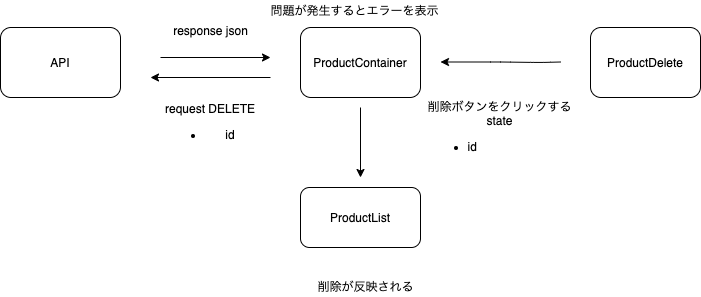
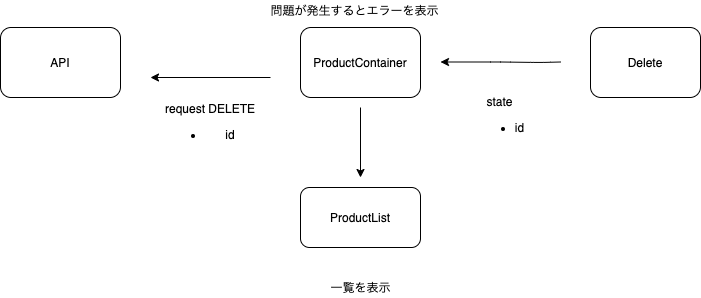
コンポーネント図の修正

diff --git a/src/api/ProductApi.js b/src/api/ProductApi.js
@@ -4,7 +4,7 @@ import axios from 'axios'
 const API_HOST = process.env.REACT_APP_API_HOST; //http://localhost:8080/
 
 const productApi = axios.create({
-    baseURL: API_HOST + '/api/products',
+    baseURL: API_HOST + 'api/products',
     headers: {
         'Content-Type': 'application/json'
     },
@@ -13,8 +13,6 @@ const productApi = axios.create({
 
 /**
  * apiのアクセスに必要なauthヘッダーを作成して返します
- * @param apiToken
- * @returns {Object} config
  */
  const generateConfig = (apiToken) => ({
     headers: {'Authorization': `Bearer ${apiToken}`}
@@ -23,80 +21,40 @@ const productApi = axios.create({
 
 /**
  * 商品情報一覧を取得します
- * @param apiToken
- * @returns {Promise<Product[]|String>}
  */
 const fetchAll = async (apiToken) => {
-        const products = (await productApi.get('/', generateConfig(apiToken))).data;
+        const products = (await productApi.get('/', generateConfig(apiToken)));
         products.forEach(v => {
-            v.isVisible = true;
-            v.editIsVisible = false;
+            console.log(v)
         });
         return products;
     }
+
 /**
  * 商品を追加します
- * @param body
- * @param apiToken
- * @returns {Promise<Product|String>}
  */
 const add = async (title, desc, price, apiToken) => {
-    try {
-        const product = (await productApi.post('/', title, desc, price, generateConfig(apiToken))).data;
-        product.isVisible = true;
-        product.isEdit = false;
+        const product = (await productApi.post('/', title, desc, price, generateConfig(apiToken)));
         return product;
-    }
-    catch (err) {
-        if (err.response) {
-            throw err.response.data.error.message;
-        } else {
-            throw err.message;
-        }
-    }
 };
 
 /**
  * 指定idの商品を更新します
- * @param id
- * @param body
- * @param apiToken
- * @returns {Promise<Product|String>}
  */
 const update = async (id, title, desc, price, apiToken) => {
-    try {
-        const product = (await productApi.put(`/${id}`, title, desc, price, generateConfig(apiToken))).data;
-        product.isVisible = true;
-        product.isEdit = false;
+        const product = (await productApi.put(`/${id}`, title, desc, price, generateConfig(apiToken)));
         return product;
-    }
-    catch (err) {
-        if (err.response) {
-            throw err.response.data.error.message;
-        } else {
-            throw err.message;
-        }
-    }
 };
 
 /**
  * 指定idの商品を削除します
- * @param id
- * @param apiToken
- * @returns {Promise<AxiosResponse<T>|String>}
  */
 const $delete = async (id, apiToken) => {
-    try {
         return await productApi.delete(`/${id}`, generateConfig(apiToken));
-    }
-    catch (err) {
-        if (err.response) {
-            throw err.response.data.error.message;
-        } else {
-            throw err.message;
-        }
-    }
 };
+
+
+
 
 export default {
     fetchAll,

diff --git a/src/containers/ProductContainer.js b/src/containers/ProductContainer.js
@@ -21,25 +21,27 @@ export default class ProductContainer extends React.Component {
   }
 
   /**
-     * 商品情報一覧を取得します
-     * @param e
-     */
-    fetchData = async (e) => {
-      const apiToken = this.state.apiToken;
-      const products = await productApi.fetchAll(apiToken);
-      this.setState({
-        products: products
-    });
-      window.localStorage.setItem('apiToken', apiToken);
-    }
-
-     /**
      * apiTokenの変更をstateに反映させます
      * @param e
      */
     handleInputChange = e => {
       this.setState({apiToken: e.target.value})
   };
+
+  /**
+     * 商品情報一覧を取得します
+     * @param e
+     */
+    fetchData = async (e) => {
+      const apiToken = this.state.apiToken;
+      const products = await productApi.fetchAll(apiToken);
+      console.log(products)
+      this.setState({
+        products: products
+    });
+      window.localStorage.setItem('apiToken', apiToken);
+    }
+
 
 
     //商品の追加
@@ -128,7 +130,7 @@ export default class ProductContainer extends React.Component {
     <div>
           <form>
           <h1>APIトークン</h1>
-          <input type="text" id="api" placeholder="トークンを入れてください" onChange={this.handleInputChange} value={this.state.apiToken} />
+          <input type="text" id="api" placeholder="トークンを入れてください" onChange={this.handleInputChange} />
           <button type="submit" id="valid" onClick={this.fetchData}>商品情報を取得</button>
           </form>
 

diff --git a/src/components/ProductForm.js b/src/components/ProductForm.js
@@ -7,8 +7,8 @@ export default class ProductForm extends React.Component {
       messages: []
     }
   }
-
-  onSubmit = e => {
+ 
+   onSubmit = e => {
     e.preventDefault();
     const messages = [];
     const form = e.target.form

diff --git a/README.md b/README.md
@@ -23,23 +23,11 @@
 
 ```
 
-## npm のインストール
-
-```
-・npmインストール
-$ sudo npm install -g npm
-
-・npmバージョン確認(6.14.4)
-$ npm -v
-
-```
-
 ## React アプリの起動
 
 ```
 $ git clone git@bitbucket.org:teamlabengineering/asada-frontend.git
 cd ~/ {cloneしたディレクトリ} /asada-frontend
 
-$ npm install
 $ npm start
 ```
